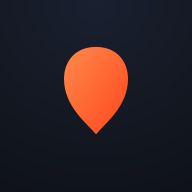
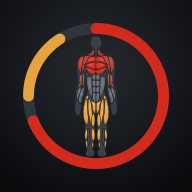
Nouvelle icône : silhouette de face dans la jauge de récup
Remplace l'icône goutte par la proposition C5 (corps de face, muscles
colorés selon leur état, anneau rouge/ambre). Cache du service worker
passé en v3 pour que les icônes soient rechargées.

Claude-Session: https://claude.ai/code/session_012QJFA9KgMvpSoVBFTvKYNq

Changed region(s): [[0.0938, 0.0938, 0.9062, 0.9062]]

diff --git a/sw.js b/sw.js
@@ -3,7 +3,7 @@
    Stratégie « réseau d'abord » : en ligne, on sert toujours la dernière version
    publiée (et on met le cache à jour) ; hors ligne, on sert la copie en cache.
    Les appels Microsoft (connexion, OneDrive) ne passent jamais par le cache. */
-const CACHE = 'musclemap-v2';
+const CACHE = 'musclemap-v3';
 const ASSETS = [
   './', './manifest.json', './icon-180.png', './icon-192.png', './icon-512.png',
   './css/app.css', './js/app.js', './js/data.js', './js/i18n.js', './js/store.js', './js/logic.js', './js/body.js', './js/sync.js',
